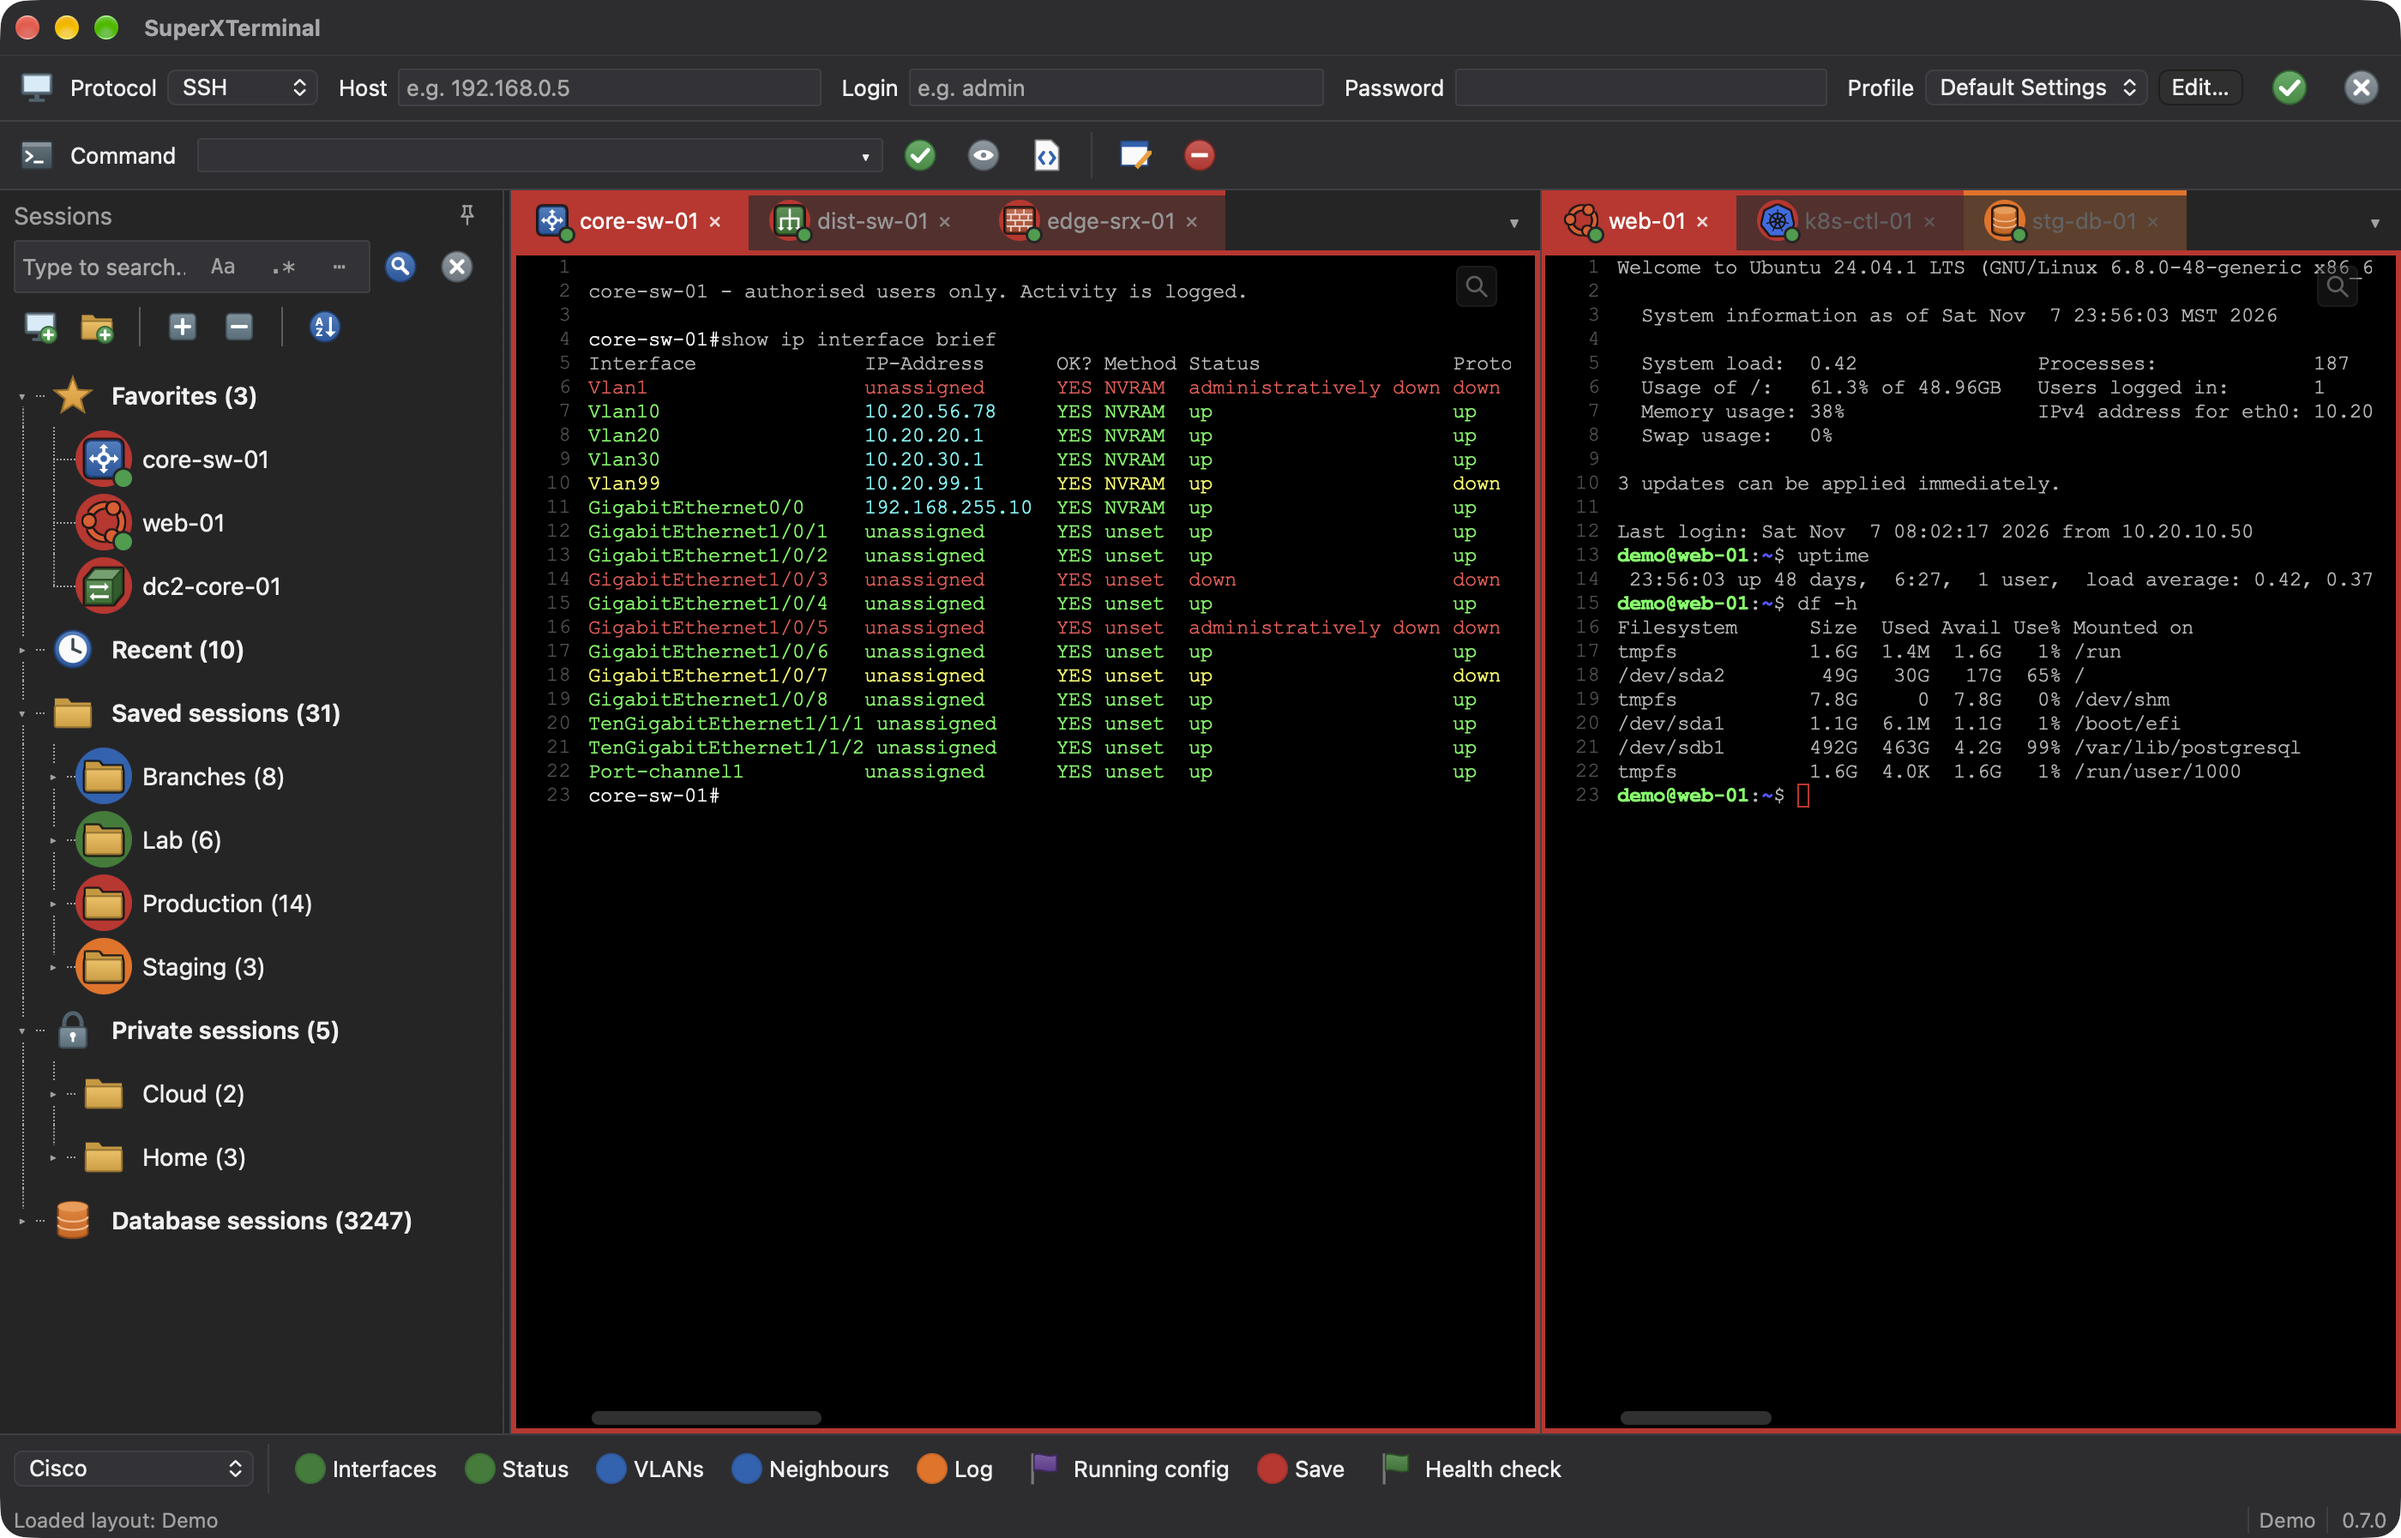
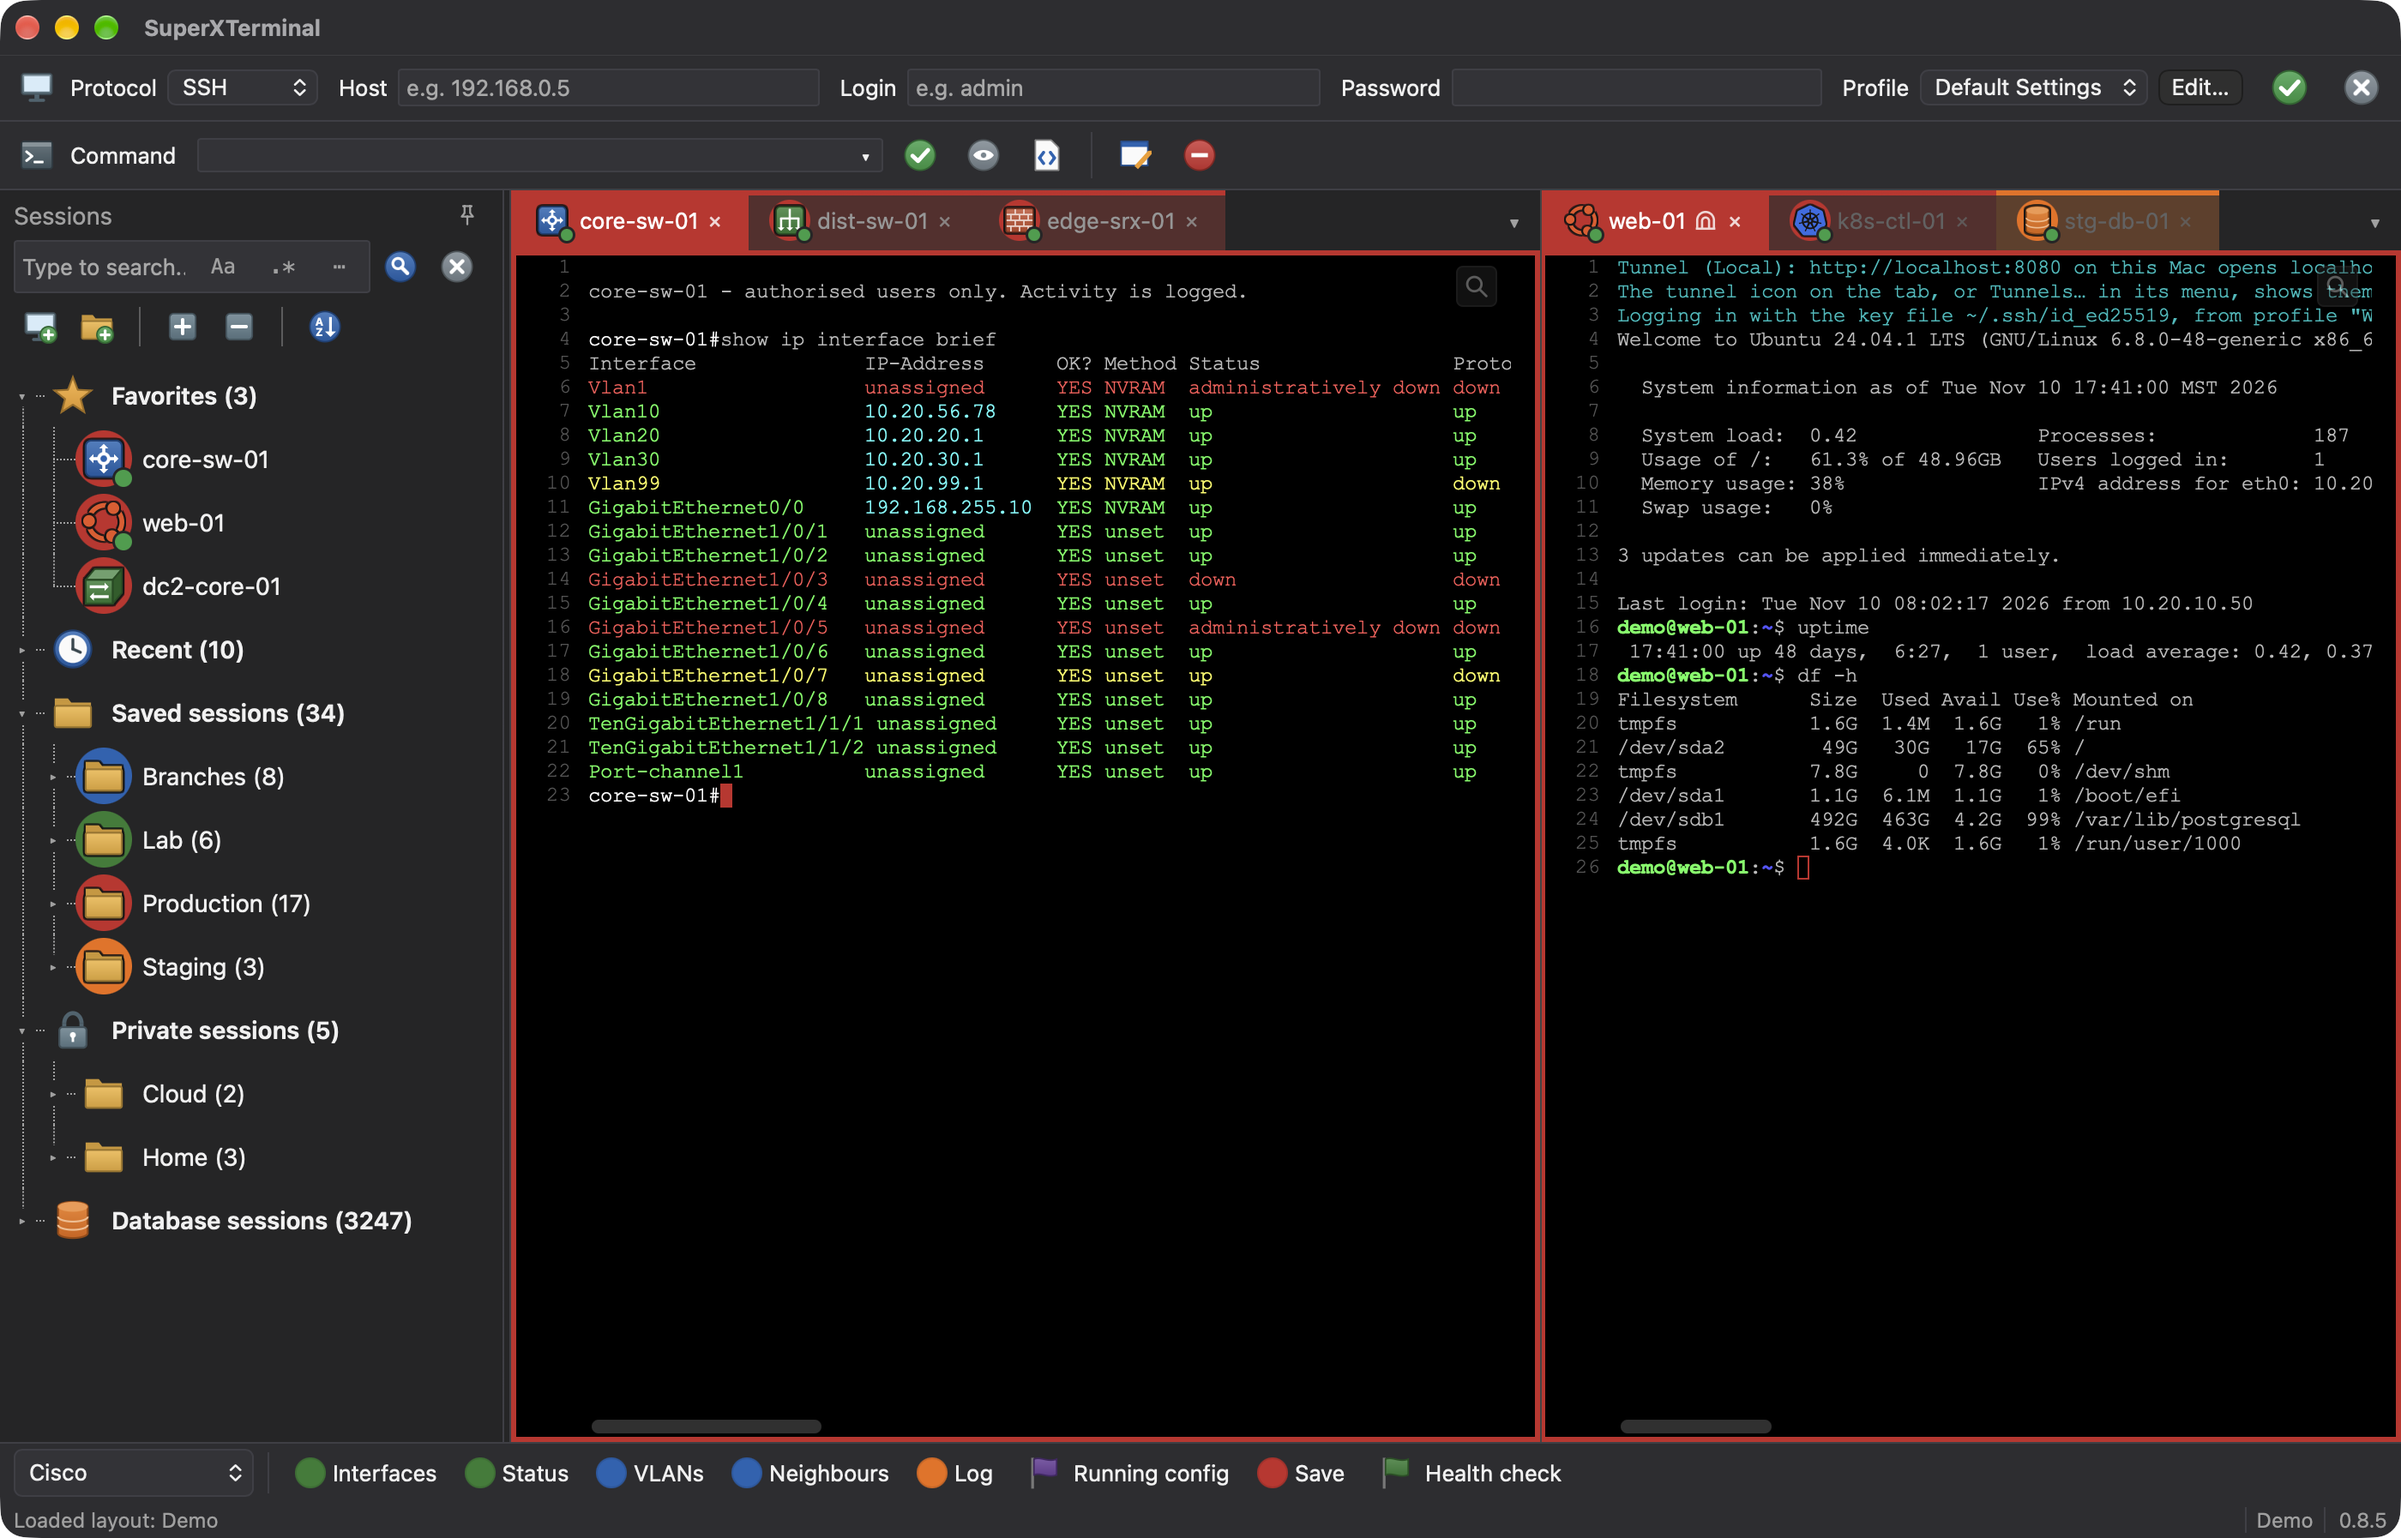
Screenshots: Grid View, and the main window taken again
grid-view.png shows the Demo layout's six tabs after View > Grid View, at the top of the README's Screenshots,
and the features list names Grid View. main-window.png is taken again, web-01 listing its tunnel. The screenshot
guide says to leave one terminal focused, the top left ideally, and nothing left at a prompt.

diff --git a/docs/screenshots/README.md b/docs/screenshots/README.md
@@ -28,8 +28,8 @@ position aren't read or changed. What it opens with:
   own count. One is a 1Password reference, and `{branch_user}` and `{field_user}` are used but deliberately unset.
 - **The Demo layout:** core-sw-01, dist-sw-01 and edge-srx-01 beside web-01, k8s-ctl-01 and stg-db-01, some with a
   command already run; the terminal unwrapped, with line numbers.
-- **Profiles:** eleven, from Network devices and Linux servers to a jump host, CyberArk, short-lived keys and a
-  light-coloured lab, used by the sessions.
+- **Profiles:** twelve, from Network devices, Linux servers and Web servers (the one with a tunnel, so only web-01's
+  tab asks for its port) to a jump host, CyberArk, short-lived keys and a light-coloured lab, used by the sessions.
 - **Saved scripts:** the Rhai and SPSL examples in `docs/`. cisco-tour.rhai runs against the demo's switches.
 - **File transfer:** a switch's flash over SCP (the device's own `dir`), beside the demo's own Downloads folder.
   Copies show their progress for about a minute and leave an empty file of the right size. Nothing on the device
@@ -49,6 +49,9 @@ SUPERXTERMINAL_DEMO=1 SUPERXTERMINAL_DEMO_RDP=admin@<test machine> npm run tauri
 
 ## Taking them
 
+Before each picture, make sure one terminal has the solid (focused) cursor, ideally the top left one: click into it.
+Turning on Grid View, for one, can leave the focus in another tab. Clear anything left at a prompt too.
+
 Capture a window (click it; no shadow):
 
 ```bash
@@ -58,6 +61,7 @@ screencapture -i -w -o docs/screenshots/<name>.png
 | File | What it shows |
 |---|---|
 | `main-window.png` | Demo mode as it opens: the sessions tree's roots (Favorites, Recent with its 10, Saved, Private, 3,247 Database sessions), a switch and a server side by side with line numbers, and the button bar |
+| `grid-view.png` | The same window after View > Grid View: the Demo layout's six tabs tiled three rows by two |
 | `split-panels.png` | The tab area of `main-window.png`: core-sw-01's `show ip interface brief` highlighted beside web-01 |
 | `right-click-menu.png` | The terminal's right-click menu: Wrap Lines off, Line Numbers on |
 | `edit-session.png` | Edit Session for dc2-core-01, a Database session, with its `{noc_user}` placeholder |

diff --git a/README.md b/README.md
@@ -144,6 +144,11 @@ and works the same on the Mac, Windows and Linux. It's built with [Tauri 2](http
 
 ## Screenshots
 
+![Grid View: six sessions tiled three rows by two, switches, a firewall and servers, each in its environment colour](docs/screenshots/grid-view.png)
+
+**Grid View.** View > Grid View tiles every tab, one split each, and keeps them tiled as tabs open and close. Turned
+off, the tabs go back to the splits they had, or join into one group, as Settings > General > Tabs says.
+
 | | |
 |---|---|
 | ![A Cisco switch and a Linux server side by side, the switch's output highlighted](docs/screenshots/split-panels.png) | ![The terminal's right-click menu](docs/screenshots/right-click-menu.png) |
@@ -194,7 +199,8 @@ and works the same on the Mac, Windows and Linux. It's built with [Tauri 2](http
 
 **Terminal**
 
-- Tabs, splits (side by side or stacked), more windows, and layouts that reopen a set of sessions.
+- Tabs, splits (side by side or stacked), Grid View to tile them all, more windows, and layouts that reopen a set of
+  sessions.
 - Highlighting rules for Cisco, Junos and generic output, chosen per tab, session or folder.
 - Wrap Lines on or off. With it off, long lines stay whole, a scroll bar pans along them, and the view follows the
   cursor as you type.
